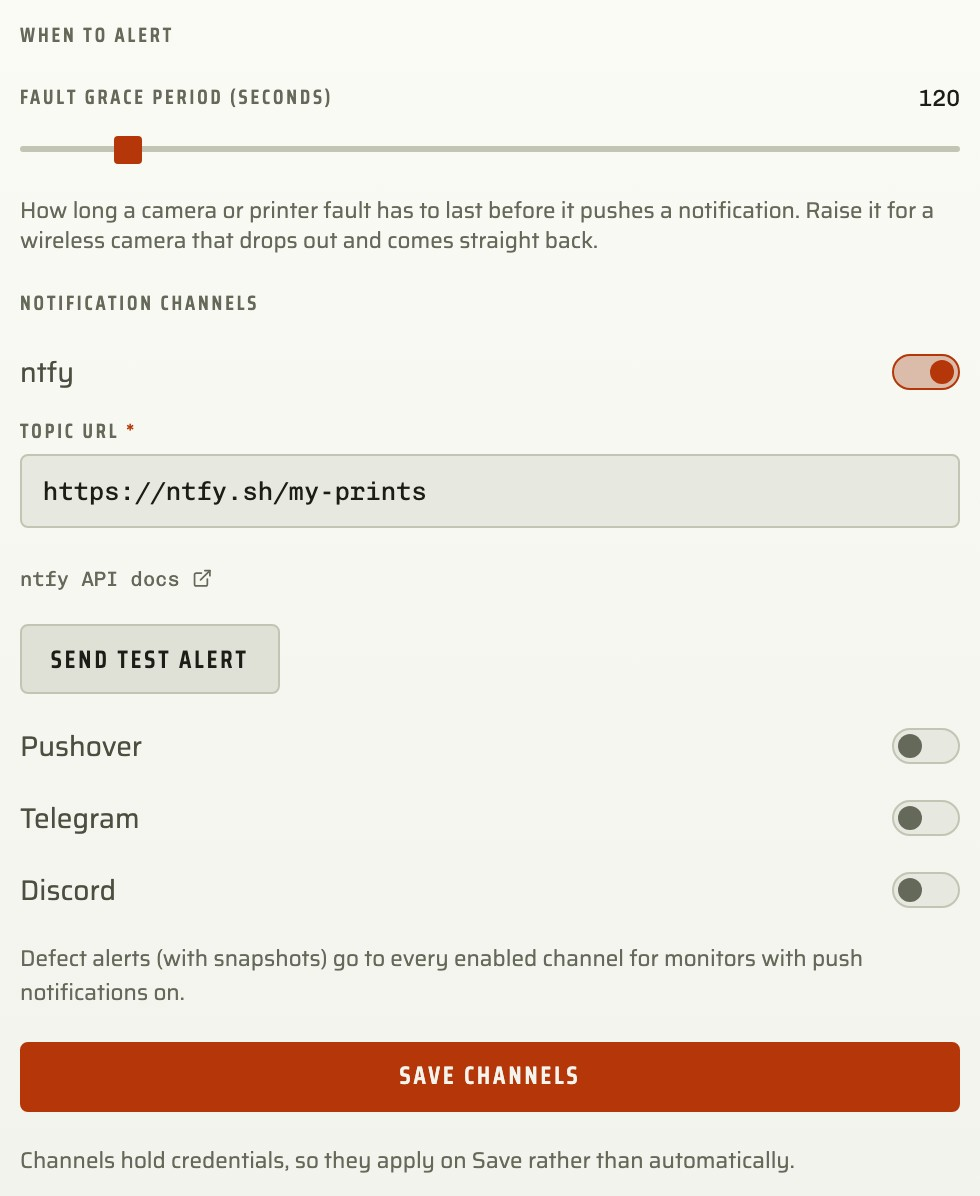
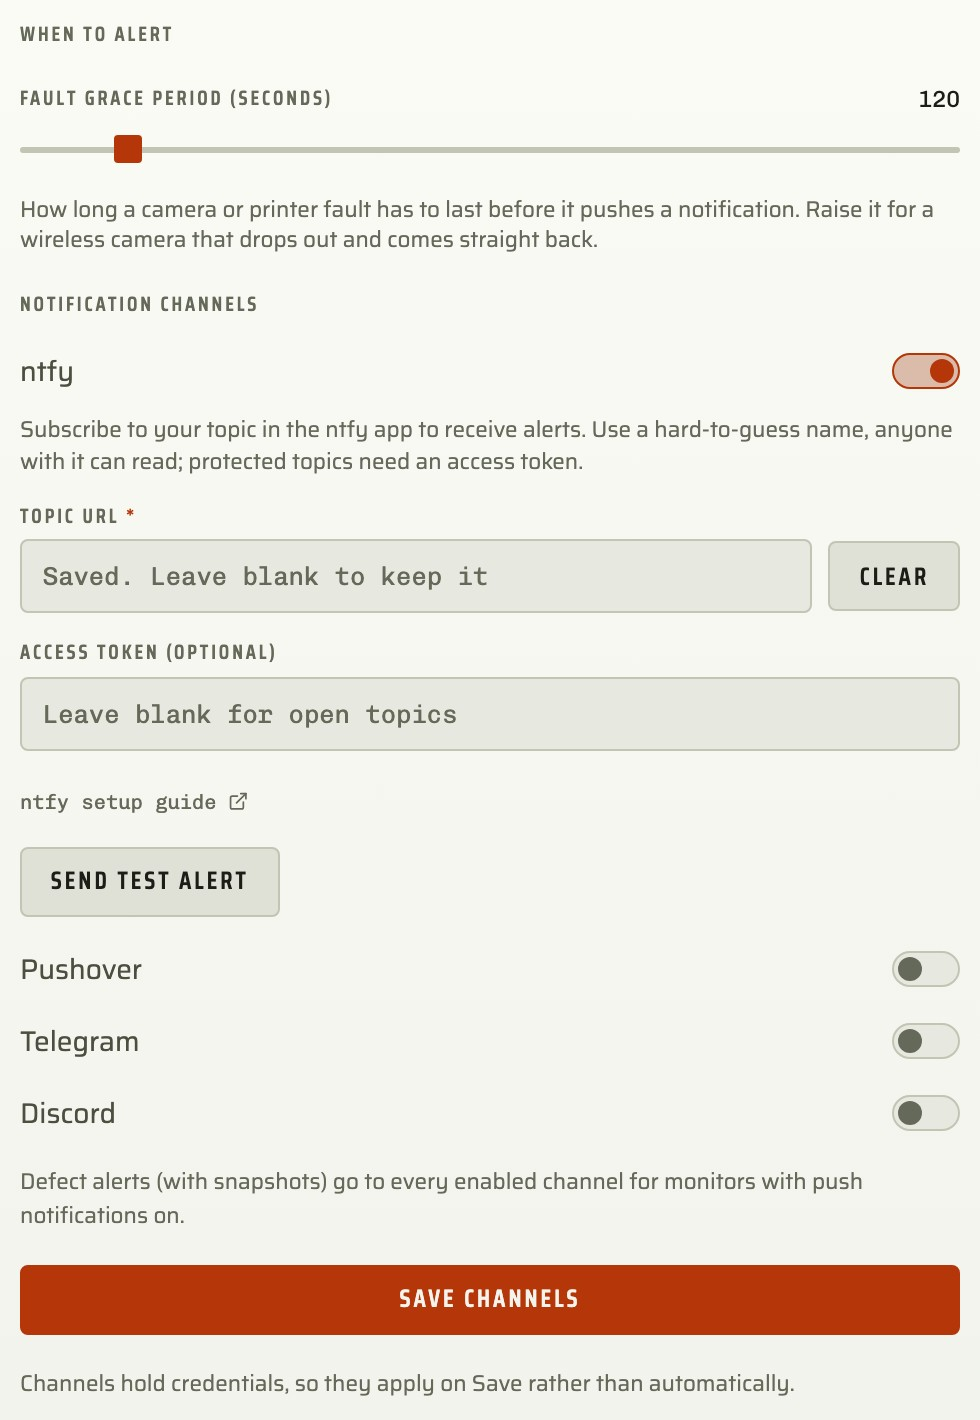
Stage the alerts guide shot with ntfy's real secret fields so no topic URL shows

diff --git a/web/screenshots/capture.spec.ts b/web/screenshots/capture.spec.ts
@@ -304,18 +304,48 @@ const stoodDown = (e: EngineState) => {
 
 const NOTIFIERS = [
   {
-    id: "ntfy", label: "ntfy", docs_url: "",
-    schema: { properties: { url: { type: "string", title: "Topic URL", placeholder: "https://ntfy.sh/my-prints" } }, required: ["url"] },
+    id: "ntfy", label: "ntfy", docs_url: "https://docs.ntfy.sh/publish/", setup_url: "https://docs.ntfy.sh/subscribe/phone/",
+    setup_hint: "Subscribe to your topic in the ntfy app to receive alerts. Use a hard-to-guess name, anyone with it can read; protected topics need an access token.",
+    schema: {
+      properties: {
+        url: { type: "string", title: "Topic URL", secret: true, placeholder: "https://ntfy.sh/my-printers" },
+        token: { type: "string", title: "Access token (optional)", secret: true, placeholder: "Leave blank for open topics" },
+      },
+      required: ["url"],
+    },
   },
   {
-    id: "pushover", label: "Pushover", docs_url: "",
-    schema: { properties: { api_token: { type: "string", title: "Application API token", secret: true }, user_key: { type: "string", title: "User key", secret: true } }, required: ["api_token", "user_key"] },
+    id: "pushover", label: "Pushover", docs_url: "https://pushover.net/api", setup_url: "https://pushover.net/apps/build",
+    setup_hint: "Create an application at pushover.net/apps/build for its API token. Your user key is on the Pushover dashboard, and the app is a one-off purchase per platform.",
+    schema: {
+      properties: {
+        api_token: { type: "string", title: "Application API token", secret: true, placeholder: "From pushover.net/apps/build" },
+        user_key: { type: "string", title: "User key", secret: true, placeholder: "From your Pushover dashboard" },
+        priority: {
+          type: "string", title: "Priority (applies to every notice)", default: "1", enum: ["-2", "-1", "0", "1"],
+          enum_labels: ["Lowest - no notification, badge only", "Low - notifies without a sound", "Normal - respects your quiet hours", "High - bypasses your quiet hours"],
+        },
+      },
+      required: ["api_token", "user_key"],
+    },
   },
   {
-    id: "telegram", label: "Telegram", docs_url: "",
-    schema: { properties: { token: { type: "string", title: "Bot token", secret: true }, chat_id: { type: "string", title: "Chat ID" } }, required: ["token", "chat_id"] },
+    id: "telegram", label: "Telegram", docs_url: "https://core.telegram.org/bots/api", setup_url: "https://core.telegram.org/bots/tutorial",
+    setup_hint: "Create a bot with @BotFather to get its token, then message the bot and read your chat ID from @userinfobot.",
+    schema: {
+      properties: {
+        bot_token: { type: "string", title: "Bot token", secret: true, placeholder: "From @BotFather" },
+        chat_id: { type: "string", title: "Chat ID", placeholder: "From @userinfobot, e.g. 123456789" },
+      },
+      required: ["bot_token", "chat_id"],
+    },
   },
-  { id: "discord", label: "Discord", docs_url: "", schema: { properties: { webhook: { type: "string", title: "Webhook URL" } }, required: ["webhook"] } },
+  {
+    id: "discord", label: "Discord", docs_url: "https://discord.com/developers/docs/resources/webhook#execute-webhook",
+    setup_url: "https://support.discord.com/hc/en-us/articles/228383668-Intro-to-Webhooks",
+    setup_hint: "Create a webhook under Server Settings > Integrations > Webhooks and copy its URL.",
+    schema: { properties: { webhook_url: { type: "string", title: "Webhook URL", secret: true, placeholder: "https://discord.com/api/webhooks/…" } }, required: ["webhook_url"] },
+  },
 ];
 
 const DESK = { width: 1000, height: 820 } as const;
@@ -362,7 +392,8 @@ const CROPS: Crop[] = [
     target: (page) => page.locator("#settings-panel-alerts"),
     mutate: (e) => {
       e.notifiers = NOTIFIERS as never;
-      e.settings.notifiers = { ntfy: { url: "https://ntfy.sh/my-prints" } };
+      e.settings.notifiers = { ntfy: {} };
+      e.secrets_set = { notifiers: { ntfy: ["url"] }, mqtt: [] };
     },
   },
   {
